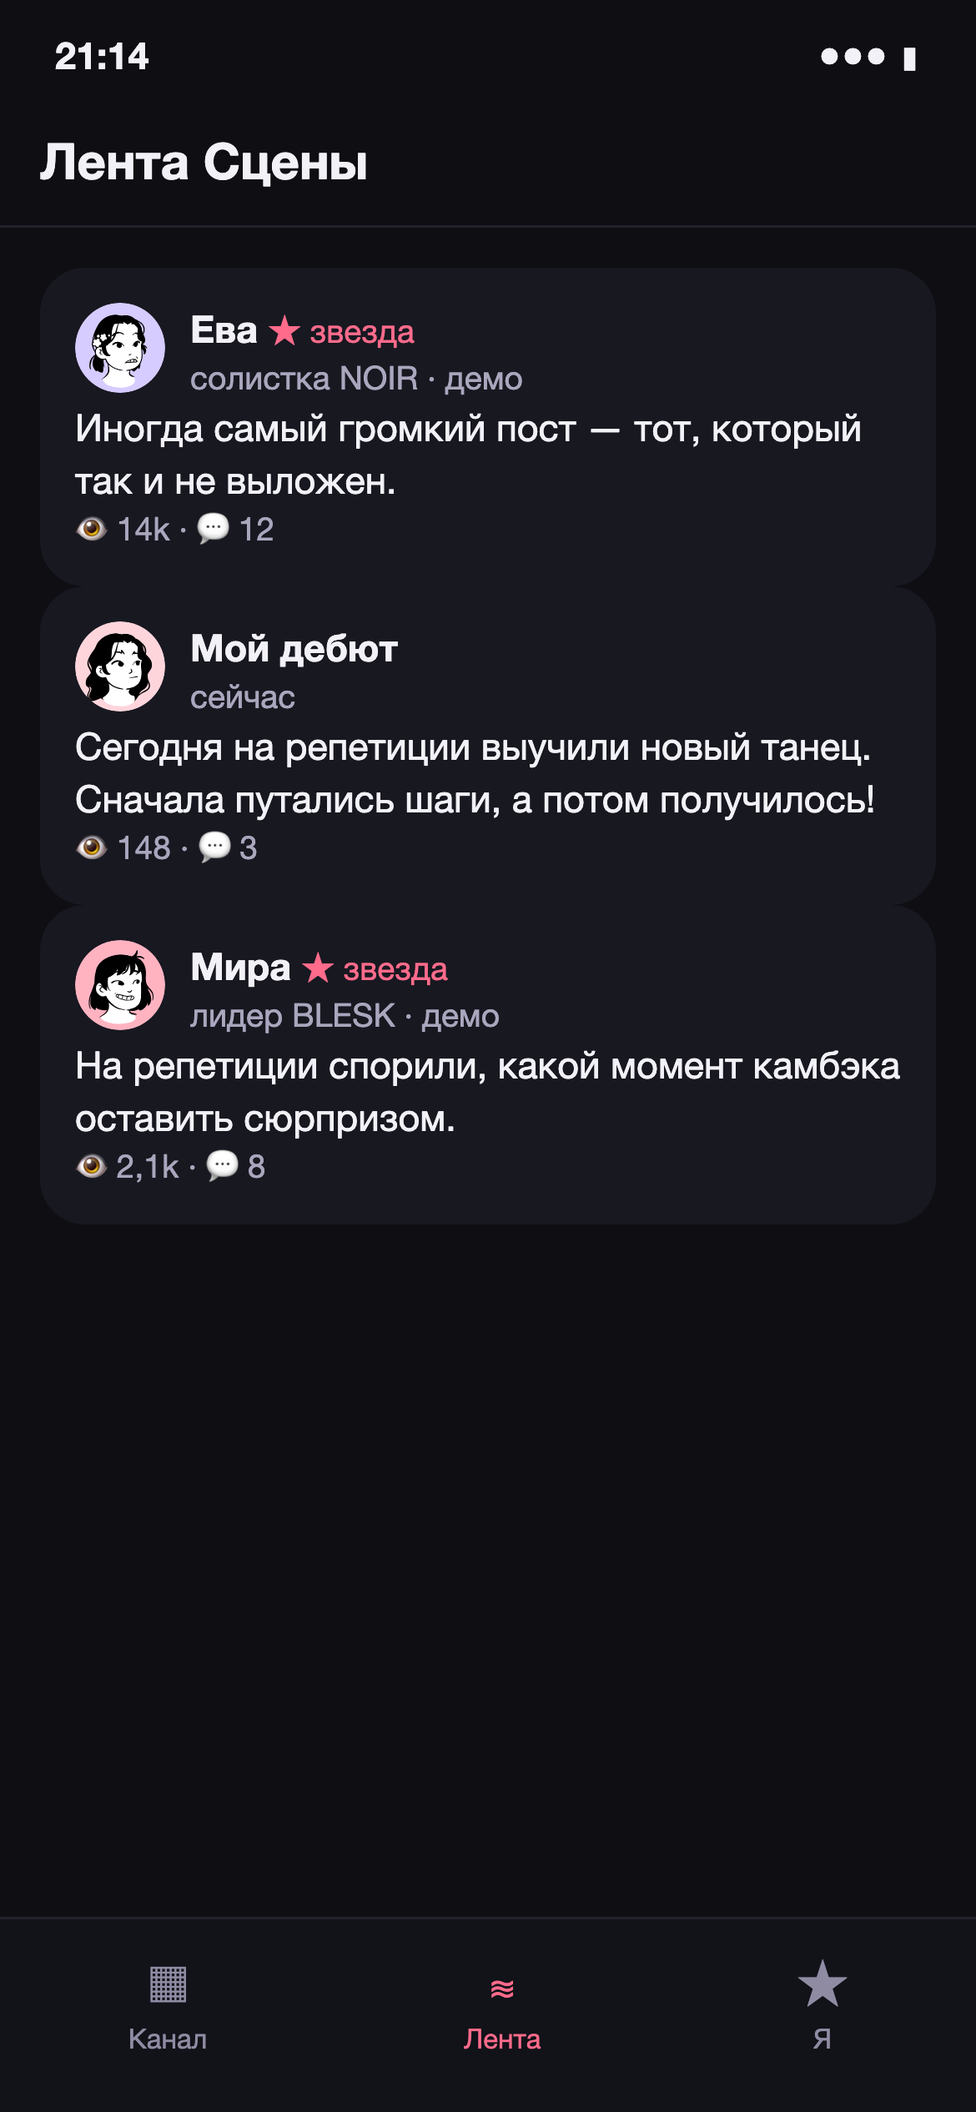
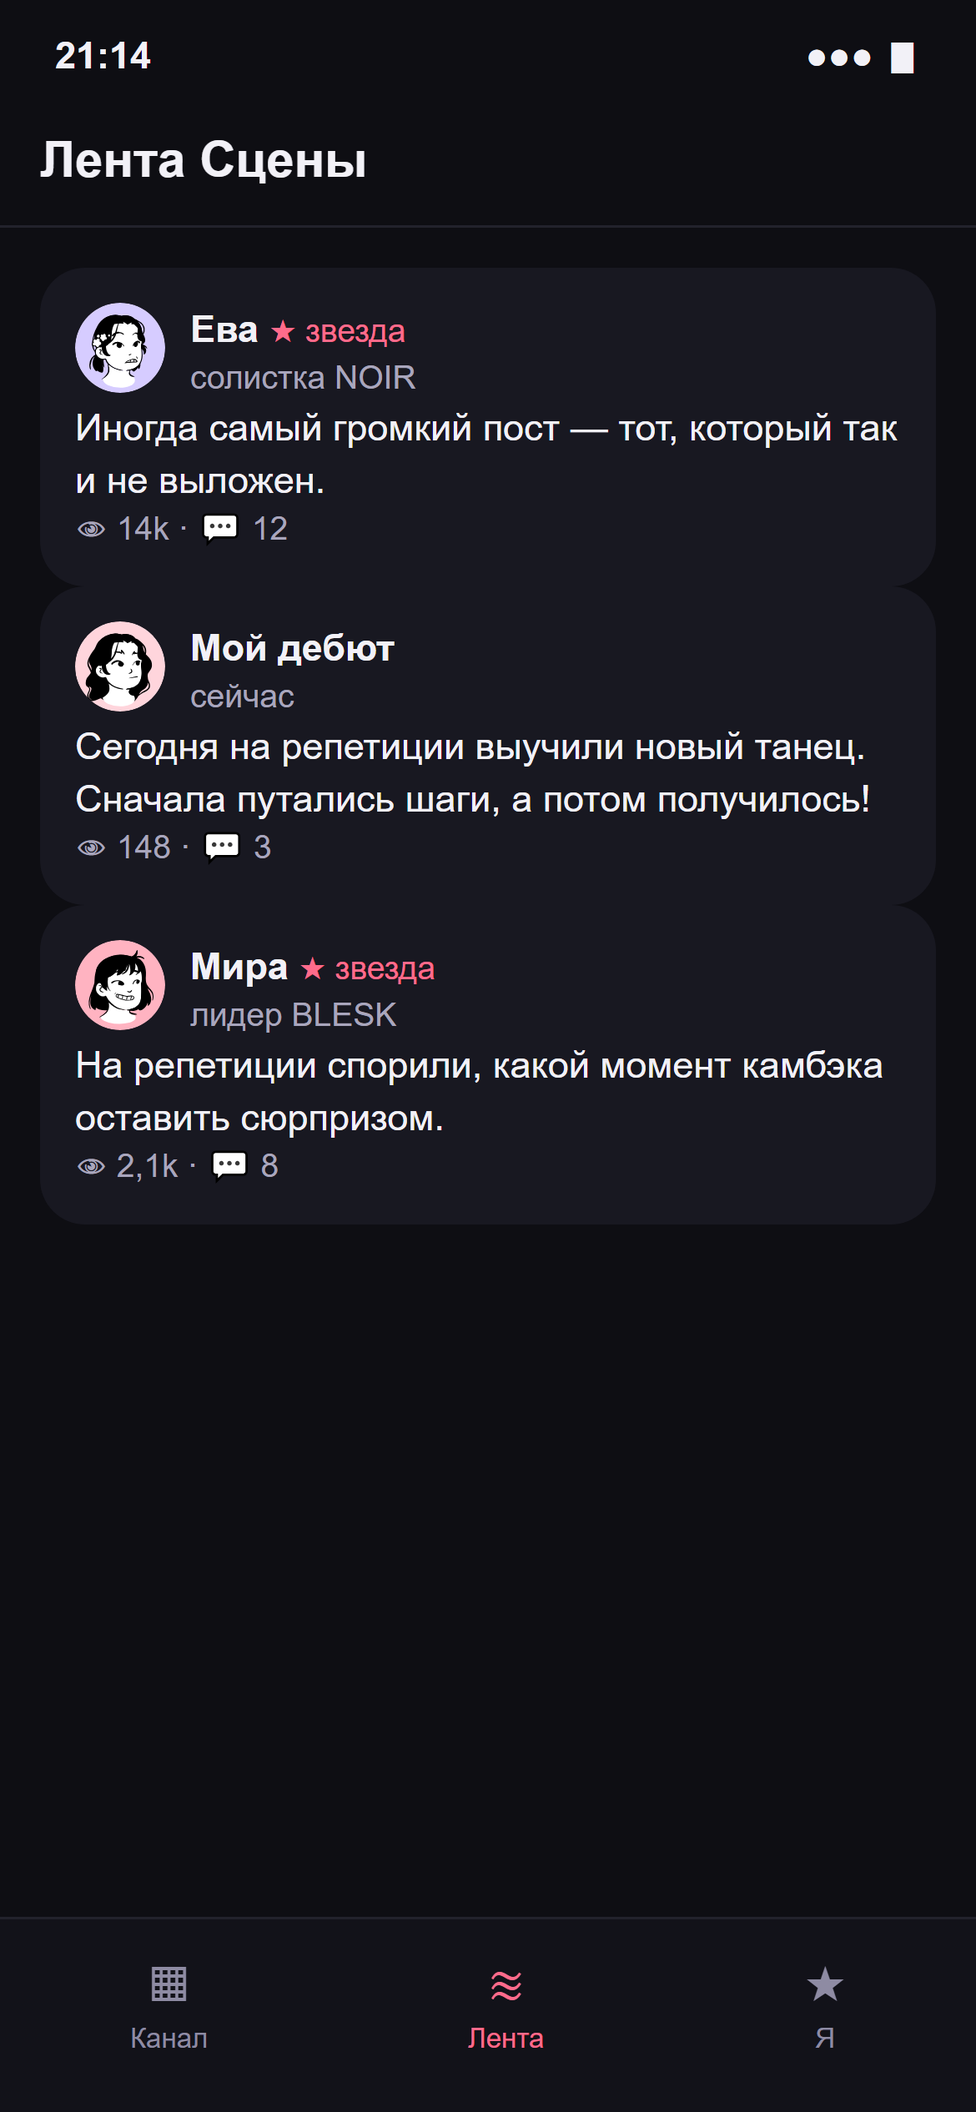
Remove feed mocks and CanReply from feed contract #148

diff --git a/frontend/src/api/demo.ts b/frontend/src/api/demo.ts
@@ -1,10 +1,8 @@
-import type { ChannelPost, CommentT, FeedItem, Player, Post, WorldId } from './types'
+import type { ChannelPost, Player, Post, WorldId } from './types'
 import { contentOf, wantsFor } from './worldContent'
 import { player as examplePlayer } from './mock'
 
 const PLAYER_KEY = 'reki:demo-player:v2'
-const comments = new Map<string, CommentT[]>()
-const posts = new Map<string, Post>()
 function read<T>(key: string): T | undefined {
   try { return JSON.parse(localStorage.getItem(key) ?? 'null') ?? undefined } catch { return undefined }
 }
@@ -43,51 +41,10 @@ export function resetDemoPlayer(playerId = currentPlayer?.id) {
       }
     } catch { /* optional storage */ }
   }
-  comments.clear()
   currentPlayer = undefined
   try { localStorage.removeItem(PLAYER_KEY) } catch { /* optional storage */ }
 }
 export const demoOwnPosts = (playerId: string): Post[] => read<Post[]>(`reki:demo-posts:${playerId}`) ?? []
 export const demoChannelPosts = (playerId: string): ChannelPost[] => demoOwnPosts(playerId).map(post => ({ postId: post.id, text: post.text,
-  createdAtUtc: post.at ?? '', views: post.views, reactions: post.reactions, commentCount: withDemoComments(post, playerId).comments.length }))
+  createdAtUtc: post.at ?? '', views: post.views, reactions: post.reactions, commentCount: post.comments.length }))
 export function saveDemoPost(playerId: string, post: Post) { save(`reki:demo-posts:${playerId}`, [post, ...demoOwnPosts(playerId).filter(item => item.id !== post.id)]) }
-export const demoPost = (id: string): Post | undefined => {
-  const world = /^demo-(stage|academy|it|stream|own)-[0-4]$/.exec(id)?.[1] as WorldId | undefined
-  if (world && !posts.has(id)) demoFeed(world)
-  return posts.has(id) ? structuredClone(posts.get(id)!) : undefined
-}
-
-/** Fresh random portion on a feed visit, with stable IDs for opening and commenting. */
-export function demoFeed(world: WorldId): FeedItem[] {
-  const profile = contentOf(world)
-  const choices = profile.posts.map((text, index) => {
-    const author = profile.stars[index % profile.stars.length]
-    const id = `demo-${world}-${index}`
-    const post: Post = {
-      id, text, views: 340 + index * 170,
-      reactions: [{ emoji: '🔥', count: 12 + index * 5 }, { emoji: '😂', count: 7 + index * 3 }],
-      comments: [{ id: `${id}-comment`, author: profile.stars[(index + 1) % profile.stars.length].name,
-        avatar: profile.stars[(index + 1) % profile.stars.length].id, handle: profile.stars[(index + 1) % profile.stars.length].role, text: ['Вот это история. Расскажешь продолжение?', 'Знакомая ситуация! Спасибо за честность.', 'Утащу эту мысль в следующий пост.'][index % 3], star: true }],
-      canReply: false, demoComments: true,
-    }
-    posts.set(id, post)
-    return { kind: 'post' as const, postId: id, author: author.name, avatar: author.id, role: author.role, starId: author.id,
-      text, ago: 'сегодня', reactions: post.reactions, views: post.views, commentCount: post.comments.length,
-      demo: true, world }
-  })
-  return shuffle(choices).slice(0, 3)
-}
-export function shuffle<T>(items: T[]): T[] {
-  const copy = [...items]
-  for (let i = copy.length - 1; i > 0; i--) {
-    const j = Math.floor(Math.random() * (i + 1)); [copy[i], copy[j]] = [copy[j], copy[i]]
-  }
-  return copy
-}
-const commentKey = (postId: string, playerId: string) => `reki:demo-comments:${playerId}:${postId}`
-export function withDemoComments(post: Post, playerId: string): Post {
-  const key = commentKey(post.id, playerId)
-  const saved = comments.get(key) ?? read<CommentT[]>(key) ?? []
-  comments.set(key, saved)
-  return { ...post, comments: [...post.comments, ...saved] }
-}

diff --git a/frontend/src/api/mock.ts b/frontend/src/api/mock.ts
@@ -1,5 +1,5 @@
 // Демо-посты и фикстуры экранов. Миры и звёзды загружаются из API.
-import type { Challenge, Dm, FeedItem, Friend, GameEvent, Player, Post, PostResult } from './types'
+import type { Challenge, Dm, Friend, GameEvent, Player, Post, PostResult } from './types'
 
 export const player: Player = {
   id: '00000000000000000000000000000001', name: 'Лиза · трейни', handle: '@liza.trainee', role: 'трейни', address: 'she',
@@ -42,16 +42,7 @@ export const channelPosts = [{
 }]
 export const liveComment = { id: 'k0', author: 'kpop_dasha', avatar: 'dasha', handle: 'фанатка', text: 'ЗАТО УВЕРЕННО 😭 это теперь мой девиз' }
 
-/** Чужой пост того же мира (03-3 → 02-6): читается, но `canReply: false` — ответы только под своими постами. */
-export const foreignPost: Post = {
-  id: 'post-eva', text: 'иногда самый громкий пост это тот, который так и не выложен. 🖤', views: 14000,
-  reactions: [{ emoji: '🖤', count: 14000 }, { emoji: '🌙', count: 3200 }], at: '2 ч назад', canReply: false,
-  comments: [
-    { id: 'fe1', author: 'Ева', avatar: 'eva', handle: 'солистка NOIR', text: 'набросала в черновик и оставила. пусть живёт', star: true },
-  ],
-}
-
-const postsById: Record<string, Post> = { [firstPost.id]: firstPost, [foreignPost.id]: foreignPost }
+const postsById: Record<string, Post> = { [firstPost.id]: firstPost }
 /** Пост по стабильному id для GET /posts/:id в mock-режиме; неизвестный id = 404. */
 export const post = (postId: string): Post => {
   const found = postsById[postId]
@@ -80,12 +71,6 @@ export const dm: Omit<Dm, 'star'> = { status: 'заинтригована', memo
   messages: [{ from: 'star', text: 'твой пост про «уверенно» разлетелся по агентству 😏' }, { from: 'me', text: 'я сама в шоке' }, { from: 'star', text: 'снимем вместе разбор моей самой позорной репетиции? ты комментируешь' }],
   ideas: ['«а если я опозорюсь?»', '«только если покажешь падение»'],
 }
-
-export const feed: FeedItem[] = [
-  { kind: 'news', text: 'BLESK объявили камбэк. Трейни, у кого лучший пост недели, позовут на съёмки тизера 👀' },
-  { kind: 'post', postId: foreignPost.id, canReply: false, author: 'Ева', avatar: 'eva', role: 'солистка NOIR', ago: '2026-10-07T04:09:02Z', text: foreignPost.text, reactions: foreignPost.reactions, views: foreignPost.views, commentCount: foreignPost.comments.length },
-  { kind: 'post', postId: firstPost.id, canReply: true, author: 'Мира', avatar: 'mira', role: 'лидер BLESK', ago: channelPosts[0].createdAtUtc, text: 'репостнула к себе. трейни, учитесь 😏', repost: 'первый день трейни: перепутала право и лево…', reactions: [{ emoji: '🔥', count: 2100 }, { emoji: '😂', count: 840 }], views: firstPost.views, commentCount: firstPost.comments.length },
-]
 
 export const friends: Friend[] = [
   { id: 'katya', name: 'Катя · ахаха', avatar: 'katya', world: '🌸 Академия', subs: 5120, lastPost: 'на фестивале мой клуб занял последнее место. зато лучший баннер', pronoun: 'её' },

diff --git a/frontend/src/api/client.ts b/frontend/src/api/client.ts
@@ -4,7 +4,7 @@ import * as mock from './mock'
 import { error, warn } from '../app/log'
 import { setAnalyticsWorld, setTelemetryPlayerAvailable } from '../app/analytics'
 import { apiBaseUrl as BASE, runtimeConfig } from '../app/runtimeConfig'
-import { demoChannelPosts, demoFeed, demoOwnPosts, demoPlayer, demoPost, resetDemoPlayer, saveDemoPlayer, saveDemoPost, shuffle, withDemoComments } from './demo'
+import { demoChannelPosts, demoOwnPosts, demoPlayer, resetDemoPlayer, saveDemoPlayer, saveDemoPost } from './demo'
 import { contentOf, installWorldContent, installWorldTemplates, worldDocumentOf, wantsFor } from './worldContent'
 import { telegramAuthHeaders } from './auth'
 import type { AgeBand } from '../app/ageBand'
@@ -322,26 +322,15 @@ export const api = {
     }
     return sessionPlayer?.energy
   },
-  feed: async (world: WorldId = sessionPlayer?.world ?? 'stage'): Promise<FeedItem[]> => {
-    const remote: FeedItem[] = BASE ? await call<FeedItem[]>(inWorld('/feed')) : demoOwnPosts(sessionPlayer?.id ?? '').slice(0, 20).map(post => ({
-      kind: 'post', postId: post.id, canReply: true, author: sessionPlayer?.name, avatar: sessionPlayer?.handle, role: sessionPlayer?.role,
-      ago: post.at, text: post.text, reactions: post.reactions, views: post.views,
-      commentCount: withDemoComments(post, sessionPlayer?.id ?? '').comments.length,
-    }))
-    const demos = !BASE && runtimeConfig.features.mockFeed ? demoFeed(world).map(item => ({ ...item,
-      commentCount: withDemoComments(demoPost(item.postId!)!, sessionPlayer?.id ?? '').comments.length })) : []
-    return !BASE && runtimeConfig.features.mockFeed ? shuffle([...remote, ...demos]) : remote
-  },
+  feed: (): Promise<FeedItem[]> => BASE ? call<FeedItem[]>(inWorld('/feed')) : later([]),
   channelPosts: (): Promise<ChannelPost[]> => BASE ? call(inWorld('/posts/mine')) : laterLazy(() => demoChannelPosts(sessionPlayer?.id ?? '')),
   post: async (postId: string): Promise<Post> => {
-    const demo = !BASE && runtimeConfig.features.mockFeed ? demoPost(postId) : undefined
     const local = !BASE ? demoOwnPosts(sessionPlayer?.id ?? '').find(item => item.id === postId) : undefined
-    const post = local ?? demo ?? (BASE
+    const post = local ?? (BASE
       ? await call<PostDetailResponse>(inWorld(`/posts/${encodeURIComponent(postId)}`)).then(({ postId: id, ...detail }) => ({ ...detail, id }))
       : await laterLazy(() => demoOwnPosts(sessionPlayer?.id ?? '').find(item => item.id === postId) ?? mock.post(postId)))
     if (!post) throw { status: 404 }
-    return !BASE && runtimeConfig.features.mockFeed
-      ? withDemoComments({ ...post, demoComments: post.demoComments || !post.canReply }, sessionPlayer?.id ?? '') : post
+    return post
   },
   friends: (): Promise<Friend[]> => BASE ? call('/friends') : later(mock.friends),
   dm: (starId: string): Promise<Dm> => BASE ? call(inWorld(`/dm/${starId}`)) : laterLazy(() => {

diff --git a/frontend/src/screens/day.tsx b/frontend/src/screens/day.tsx
@@ -88,6 +88,7 @@ function StarCard() {
 function FeedPostCard({ item }: { item: FeedItem }) {
   const nav = useNav()
   const p = usePlayer()
+  const star = contentOf(p.world).stars.find(profile => profile.avatarSeed === item.avatar)
   const open = item.postId ? () => nav.push('02-6_thread', { postId: item.postId }) : undefined
   return (
     <Card style={{ marginBottom: 12, position: 'relative' }}>
@@ -98,7 +99,7 @@ function FeedPostCard({ item }: { item: FeedItem }) {
         onKeyDown={open ? event => { if (event.target !== event.currentTarget) return; if (event.key === 'Enter' || event.key === ' ') { event.preventDefault(); open() } } : undefined}
         style={open ? { cursor: 'pointer' } : undefined}
       >
-        <div className="row"><Avatar seed={item.avatar!} world={item.world} size={36} /><div style={{ flex: 1, paddingRight: 24 }}><b>{item.author}</b>{item.starId && <span className="small" style={{ color: 'var(--accent)' }}> ★ звезда</span>} <span className="small muted">{item.role}</span><div className="tiny muted">{item.ago && postDate(item.ago)}{item.demo && ' · демо'}</div></div></div>
+        <div className="row"><Avatar seed={item.avatar!} world={p.world} size={36} /><div style={{ flex: 1, paddingRight: 24 }}><b>{item.author}</b>{star && <span className="small" style={{ color: 'var(--accent)' }}> ★ звезда</span>} <span className="small muted">{item.role}</span><div className="tiny muted">{item.ago && postDate(item.ago)}</div></div></div>
         {item.repost && <div className="small" style={{ background: '#20202B', borderRadius: 10, padding: 8, margin: '8px 0' }}><b>{p.name}</b> <span className="muted">· в реках 🌊</span><div>{item.repost}</div></div>}
         <div style={{ marginTop: 8 }}>{item.text}</div>
         <div style={{ display: 'flex', alignItems: 'center', justifyContent: 'space-between', gap: 8, marginTop: 8 }}>
@@ -116,12 +117,12 @@ function Feed() {
   const nav = useNav()
   const p = usePlayer(); const w = worldOf(p.world)
   const [portion, setPortion] = useState(0)
-  const key = `feed:${p.id}:${p.world}`
+  const key = `feed:v2:${p.id}:${p.world}`
   const [items, setItems] = useState<FeedItem[]>(() => cachedApi<FeedItem[]>(key) ?? [])
   const [feedState, setFeedState] = useState<'loading' | 'ready' | 'error'>(() => cachedApi(key) ? 'ready' : 'loading')
   useEffect(() => {
     let alive = true
-    api.feed(p.world).then(found => { if (alive) { saveApiCache(key, found); setItems(found); setFeedState('ready') } })
+    api.feed().then(found => { if (alive) { saveApiCache(key, found); setItems(found); setFeedState('ready') } })
       .catch(() => { if (alive) setFeedState('error') })
     return () => { alive = false }
   }, [key, p.world, portion])

diff --git a/frontend/src/api/types.ts b/frontend/src/api/types.ts
@@ -63,8 +63,8 @@ export interface Challenge { id: string; me: string; rival: Friend; day: number;
 export interface GameEvent { id: string; kind: 'collab' | 'hate' | 'gossip' | 'brand'; badge: string; title: string; text: string; ideas: string[]; reward: string; note: string }
 export interface DmMessage { from: 'star' | 'me'; text: string }
 export interface Dm { star: Star; status: string; memory: string[]; messages: DmMessage[]; ideas: string[]; repliesLeft: number }
-/** Карточка ленты 03-3. У постов стабильный `postId`; `canReply` открывает ответ только под своими. Новости без `postId` не открываются. */
-export interface FeedItem { kind: 'news' | 'post'; postId?: string; canReply?: boolean; author?: string; avatar?: string; role?: string; ago?: string; text: string; reactions?: Reaction[]; views?: number; commentCount?: number; repost?: string; demo?: boolean; starId?: string; world?: WorldId }
+/** Карточка серверной ленты 03-3. У постов стабильный `postId`; новости без `postId` не открываются. */
+export interface FeedItem { kind: 'news' | 'post'; postId?: string; author?: string; avatar?: string; role?: string; ago?: string; text: string; reactions?: Reaction[]; views?: number; commentCount?: number; repost?: string }
 export type WorldUpdate = Partial<Pick<WorldDocument, 'title' | 'description' | 'rules' | 'drama' | 'voice'>>
 
 /** Шаблон или экземпляр мира из MongoDB; ID экземпляра отличается от ключа баланса. */

diff --git a/frontend/src/api/worldContent.ts b/frontend/src/api/worldContent.ts
@@ -7,7 +7,7 @@ export interface WorldContent {
   handle: string
   avatarStyle: 'lorelei' | 'notionists' | 'pixelArt' | 'thumbs' | 'shapes'
   avatarLabel: string
-  stars: Star[]
+  stars: (Star & { avatarSeed: string })[]
   voices: string[]
   drama: Drama
   description: string
@@ -15,7 +15,6 @@ export interface WorldContent {
   firstContext: string
   firstPrompt: string
   ideas: string[]
-  posts: string[]
 }
 
 const documents: Partial<Record<WorldId, WorldDocument>> = {}
@@ -47,7 +46,7 @@ function toWorldContent(world: WorldDocument): WorldContent {
     stars: world.stars.map(star => ({ ...star, trait: traitNames[star.trait] ?? '' })),
     voices: world.voices, drama: world.drama, description: world.description,
     rules: world.rules.map(rule => rule.text), firstContext: world.firstContext, firstPrompt: world.firstPrompt,
-    ideas: world.postIdeas, posts: world.demoPosts,
+    ideas: world.postIdeas,
   }
 }
 

diff --git a/frontend/src/app/runtimeConfig.ts b/frontend/src/app/runtimeConfig.ts
@@ -3,7 +3,7 @@ export type ApiMode = 'mock' | 'backend'
 export interface RuntimeConfig {
   apiMode: ApiMode
   apiBaseUrl: string
-  features: { dm: boolean; friends: boolean; collection: boolean; mockFeed: boolean }
+  features: { dm: boolean; friends: boolean; collection: boolean }
 }
 
 declare global {
@@ -15,7 +15,7 @@ declare global {
 const fallbackConfig: Readonly<RuntimeConfig> = Object.freeze({
   apiMode: 'mock',
   apiBaseUrl: '/api/v1',
-  features: { dm: false, friends: false, collection: false, mockFeed: true },
+  features: { dm: false, friends: false, collection: false },
 })
 
 function readRuntimeConfig(): Readonly<RuntimeConfig> {

diff --git a/frontend/public/runtime-config/config.js b/frontend/public/runtime-config/config.js
@@ -5,6 +5,5 @@ window.__REKI_CONFIG__ = Object.freeze({
     dm: false,
     friends: false,
     collection: false,
-    mockFeed: true,
   }),
 })

diff --git a/backend/tests/Reki.Tests/Api/PostsControllerTests.cs b/backend/tests/Reki.Tests/Api/PostsControllerTests.cs
@@ -145,7 +145,6 @@ public sealed class PostsControllerTests(ApiFactory factory) : GameApiTestBase(f
         await Assert.That(item.Avatar).IsEqualTo("player");
         await Assert.That(item.Role).IsEqualTo("creator");
         await Assert.That(item.PostId).IsNotNull();
-        await Assert.That(item.CanReply).IsTrue();
         var postId = item.PostId ?? throw new InvalidOperationException("The feed post has no id.");
         var post = await api.Posts.GetPostAsync(postId, await GetWorldIdAsync(api), CancellationToken.None);
         await Assert.That(item.Views).IsEqualTo(post.Views);
@@ -180,7 +179,6 @@ public sealed class PostsControllerTests(ApiFactory factory) : GameApiTestBase(f
         // Assert
         var own = feed.Single(feedItem => feedItem.Text == "пост зрителя");
         await Assert.That(own.PostId).IsNotNull();
-        await Assert.That(own.CanReply).IsTrue();
         await Assert.That(feed.Any(feedItem => feedItem.Text == "пост соседа")).IsFalse();
         await Assert.That(feed.Any(feedItem => feedItem.Text == "пост другого мира")).IsFalse();
     }

diff --git a/backend/src/Reki.Application/Posts/PostContractMapper.cs b/backend/src/Reki.Application/Posts/PostContractMapper.cs
@@ -16,8 +16,7 @@ public static class PostContractMapper
 
     public static FeedItemResponse MapFeedItem(
         GamePost post,
-        Reki.Domain.Worlds.World author,
-        bool canReply)
+        World author)
     {
         var resolved = ResolveAuthor(post.AuthorId, author);
         return new(
@@ -31,8 +30,7 @@ public static class PostContractMapper
             CreateReactions(post),
             post.Views,
             post.Comments.Count,
-            null,
-            canReply);
+            null);
     }
 
     public static ChannelPostResponse MapChannelPost(GamePost post) =>

diff --git a/docs/design/src/build_journey.py b/docs/design/src/build_journey.py
@@ -318,6 +318,8 @@ exec(open(os.path.join(D, 'journey_v16.py'), encoding='utf-8').read())  # #87
 
 exec(open(os.path.join(D, 'journey_v17.py'), encoding='utf-8').read())  # #87
 
+exec(open(os.path.join(D, 'journey_v18.py'), encoding='utf-8').read())  # #148
+
 CH = os.environ.get('CHROME_BIN') or shutil.which('google-chrome') or shutil.which('chrome')
 if not CH and os.name == 'nt':
     CH = os.path.join(os.environ.get('PROGRAMFILES', 'C:\\Program Files'), 'Google', 'Chrome', 'Application', 'chrome.exe')

diff --git a/backend/src/Reki.Api/Posts/PostsController.cs b/backend/src/Reki.Api/Posts/PostsController.cs
@@ -87,7 +87,7 @@ public sealed class PostsController(ISender sender) : ControllerBase
             cancellationToken);
         var worlds = await rekiContext.Worlds;
         IReadOnlyList<FeedItemResponse> response =
-            [.. result.Select(post => PostContractMapper.MapFeedItem(post, worlds[post.WorldId], true))];
+            [.. result.Select(post => PostContractMapper.MapFeedItem(post, worlds[post.WorldId]))];
         return TypedResults.Ok(response);
     }
 
